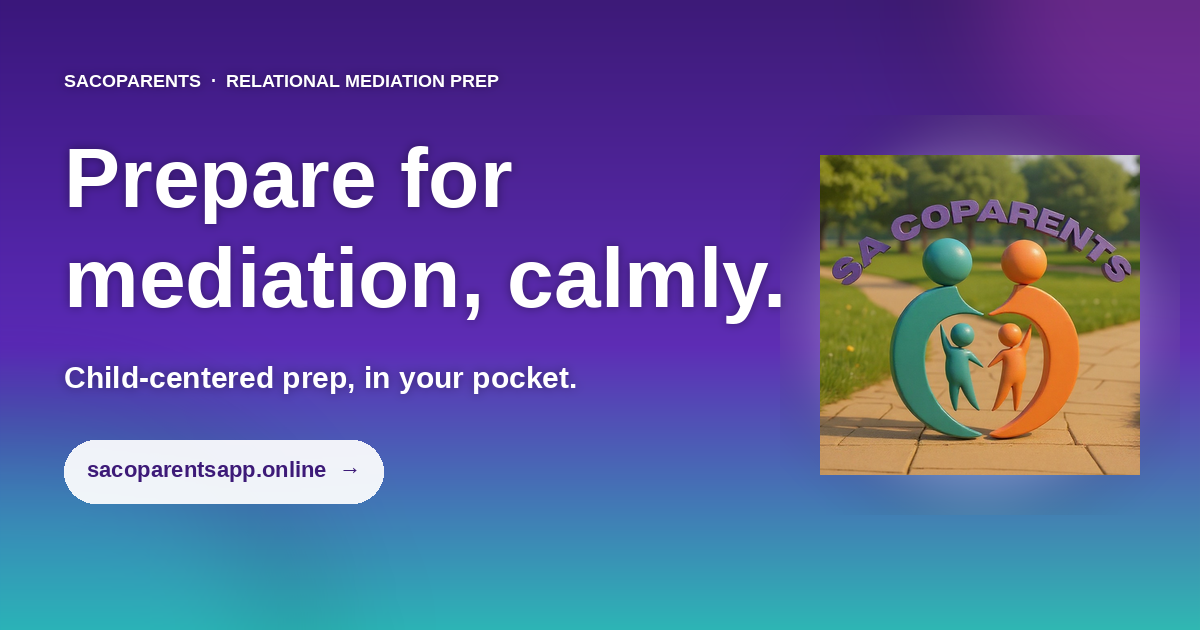
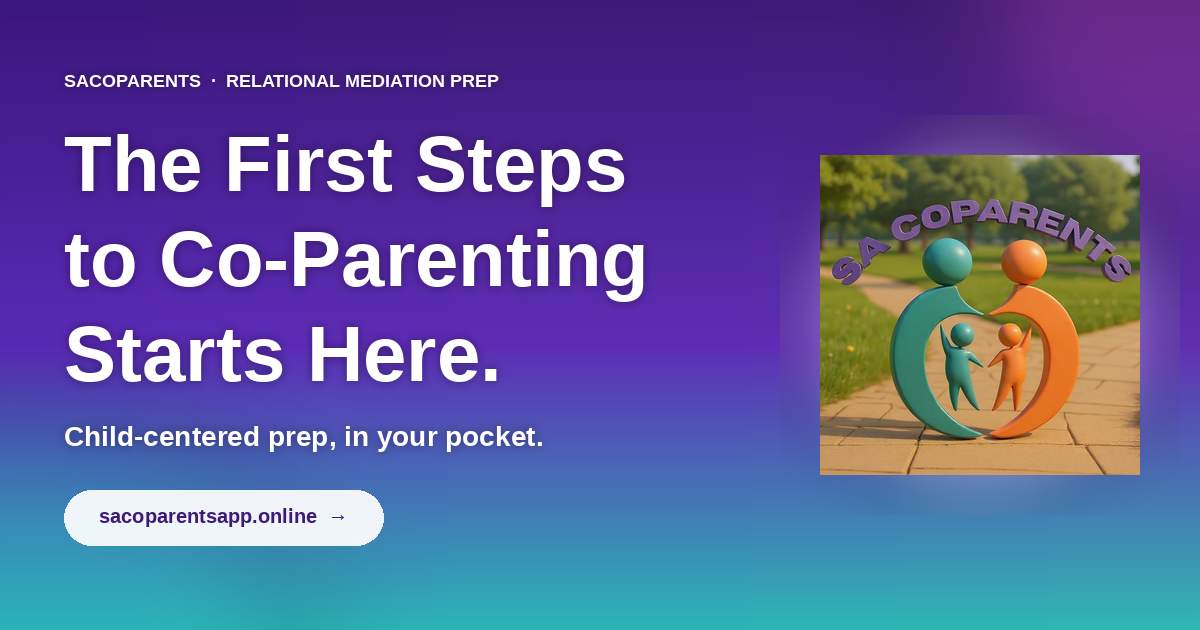
auto-commit for 3eb88efb-4b56-448c-b81b-5f5cd424c135

Changed region(s): [[0.0308, 0.2111, 0.6475, 0.6333], [0.0308, 0.6635, 0.4625, 0.8746]]

diff --git a/memory/build_og_image.py b/memory/build_og_image.py
@@ -89,28 +89,29 @@ def main():
         color=(255, 255, 255, 220),
     )
 
-    # Headline (2 lines)
-    draw_text(bg, "Prepare for", 84, (pad, 130))
-    draw_text(bg, "mediation, calmly.", 84, (pad, 230))
+    # Headline (3 lines for the longer copy)
+    draw_text(bg, "The First Steps", 78, (pad, 120))
+    draw_text(bg, "to Co-Parenting", 78, (pad, 215))
+    draw_text(bg, "Starts Here.", 78, (pad, 310))
 
     # Subhead
     draw_text(
         bg, "Child-centered prep, in your pocket.",
-        30, (pad, 360),
+        28, (pad, 420),
         color=(255, 255, 255, 235),
     )
 
     # CTA pill
-    pill = Image.new("RGBA", (320, 64), (0, 0, 0, 0))
+    pill = Image.new("RGBA", (320, 56), (0, 0, 0, 0))
     pd = ImageDraw.Draw(pill)
-    pd.rounded_rectangle((0, 0, 319, 63), radius=32, fill=(255, 255, 255, 235))
-    bg.alpha_composite(pill, (pad, 440))
-    cf = ImageFont.truetype(FONT, 22)
+    pd.rounded_rectangle((0, 0, 319, 55), radius=28, fill=(255, 255, 255, 235))
+    bg.alpha_composite(pill, (pad, 490))
+    cf = ImageFont.truetype(FONT, 20)
     cd = ImageDraw.Draw(bg)
     cta_text = "sacoparentsapp.online  →"
     tb = cf.getbbox(cta_text)
     cta_x = pad + (320 - (tb[2] - tb[0])) // 2
-    cd.text((cta_x, 440 + (64 - (tb[3] - tb[1])) // 2 - 4), cta_text, font=cf, fill=(61, 26, 120, 255))
+    cd.text((cta_x, 490 + (56 - (tb[3] - tb[1])) // 2 - 4), cta_text, font=cf, fill=(61, 26, 120, 255))
 
     # Logo — right side, vertical center, with subtle glow
     if LOGO.exists():
